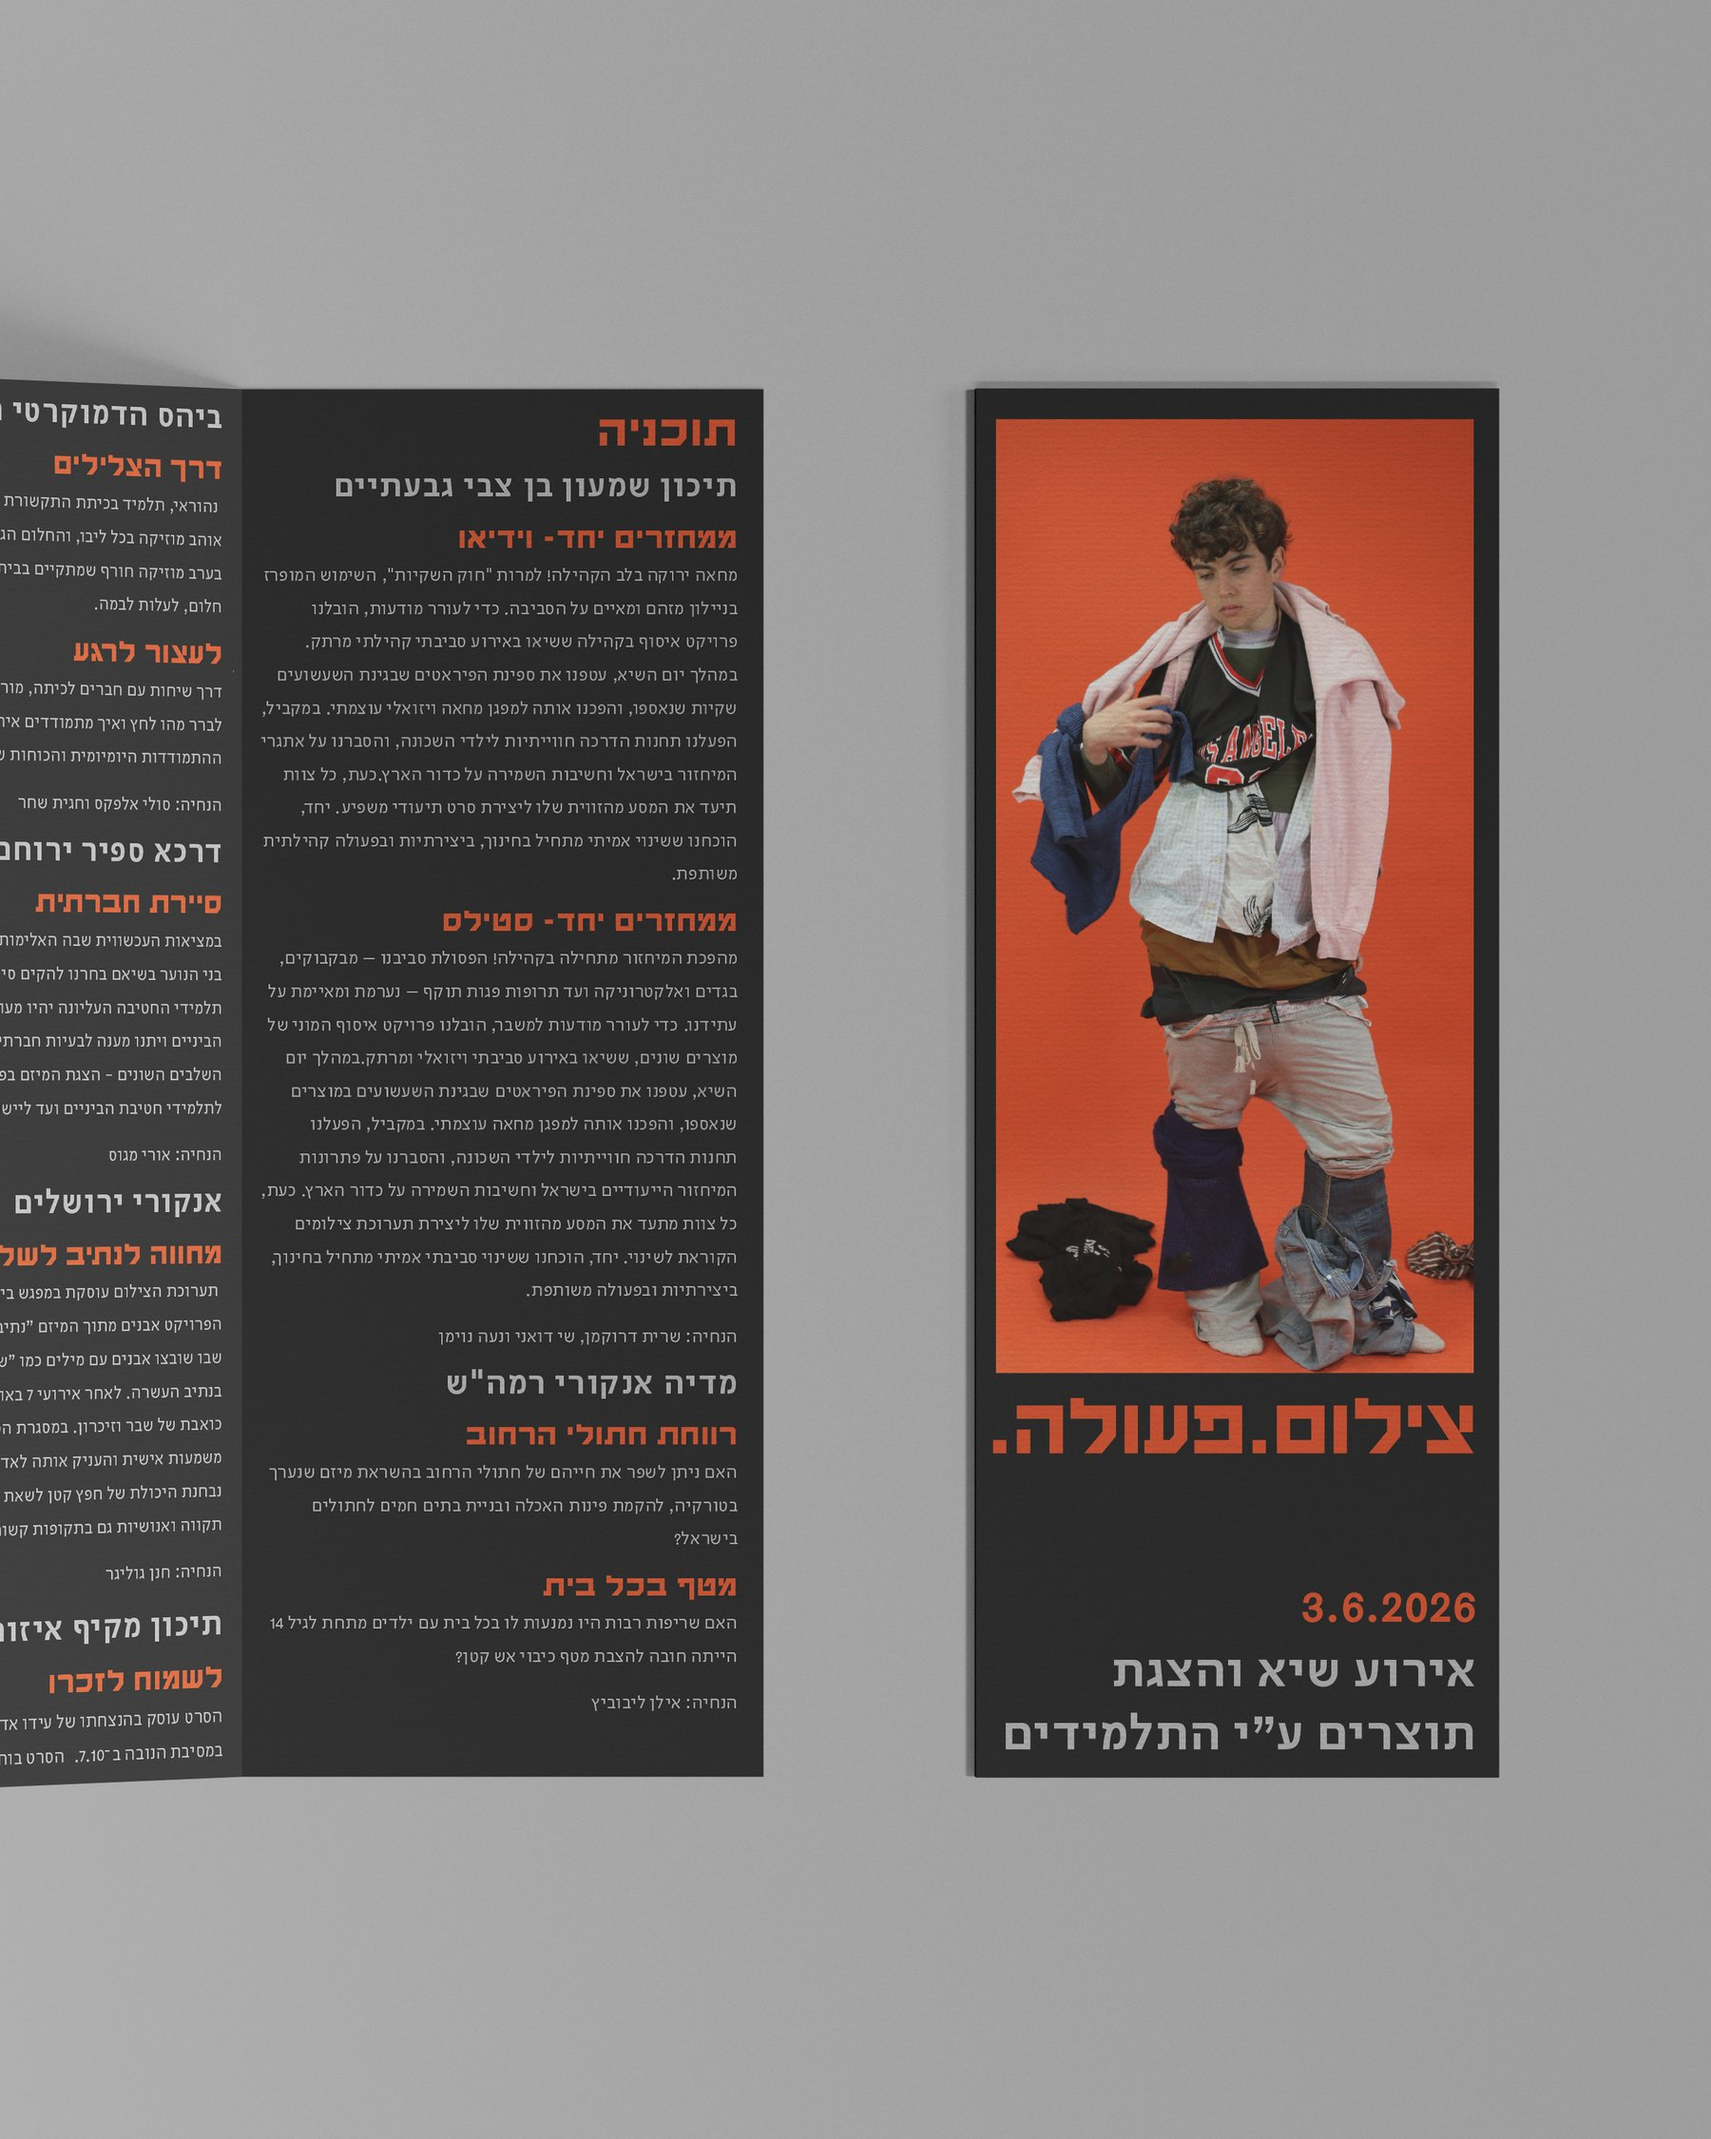
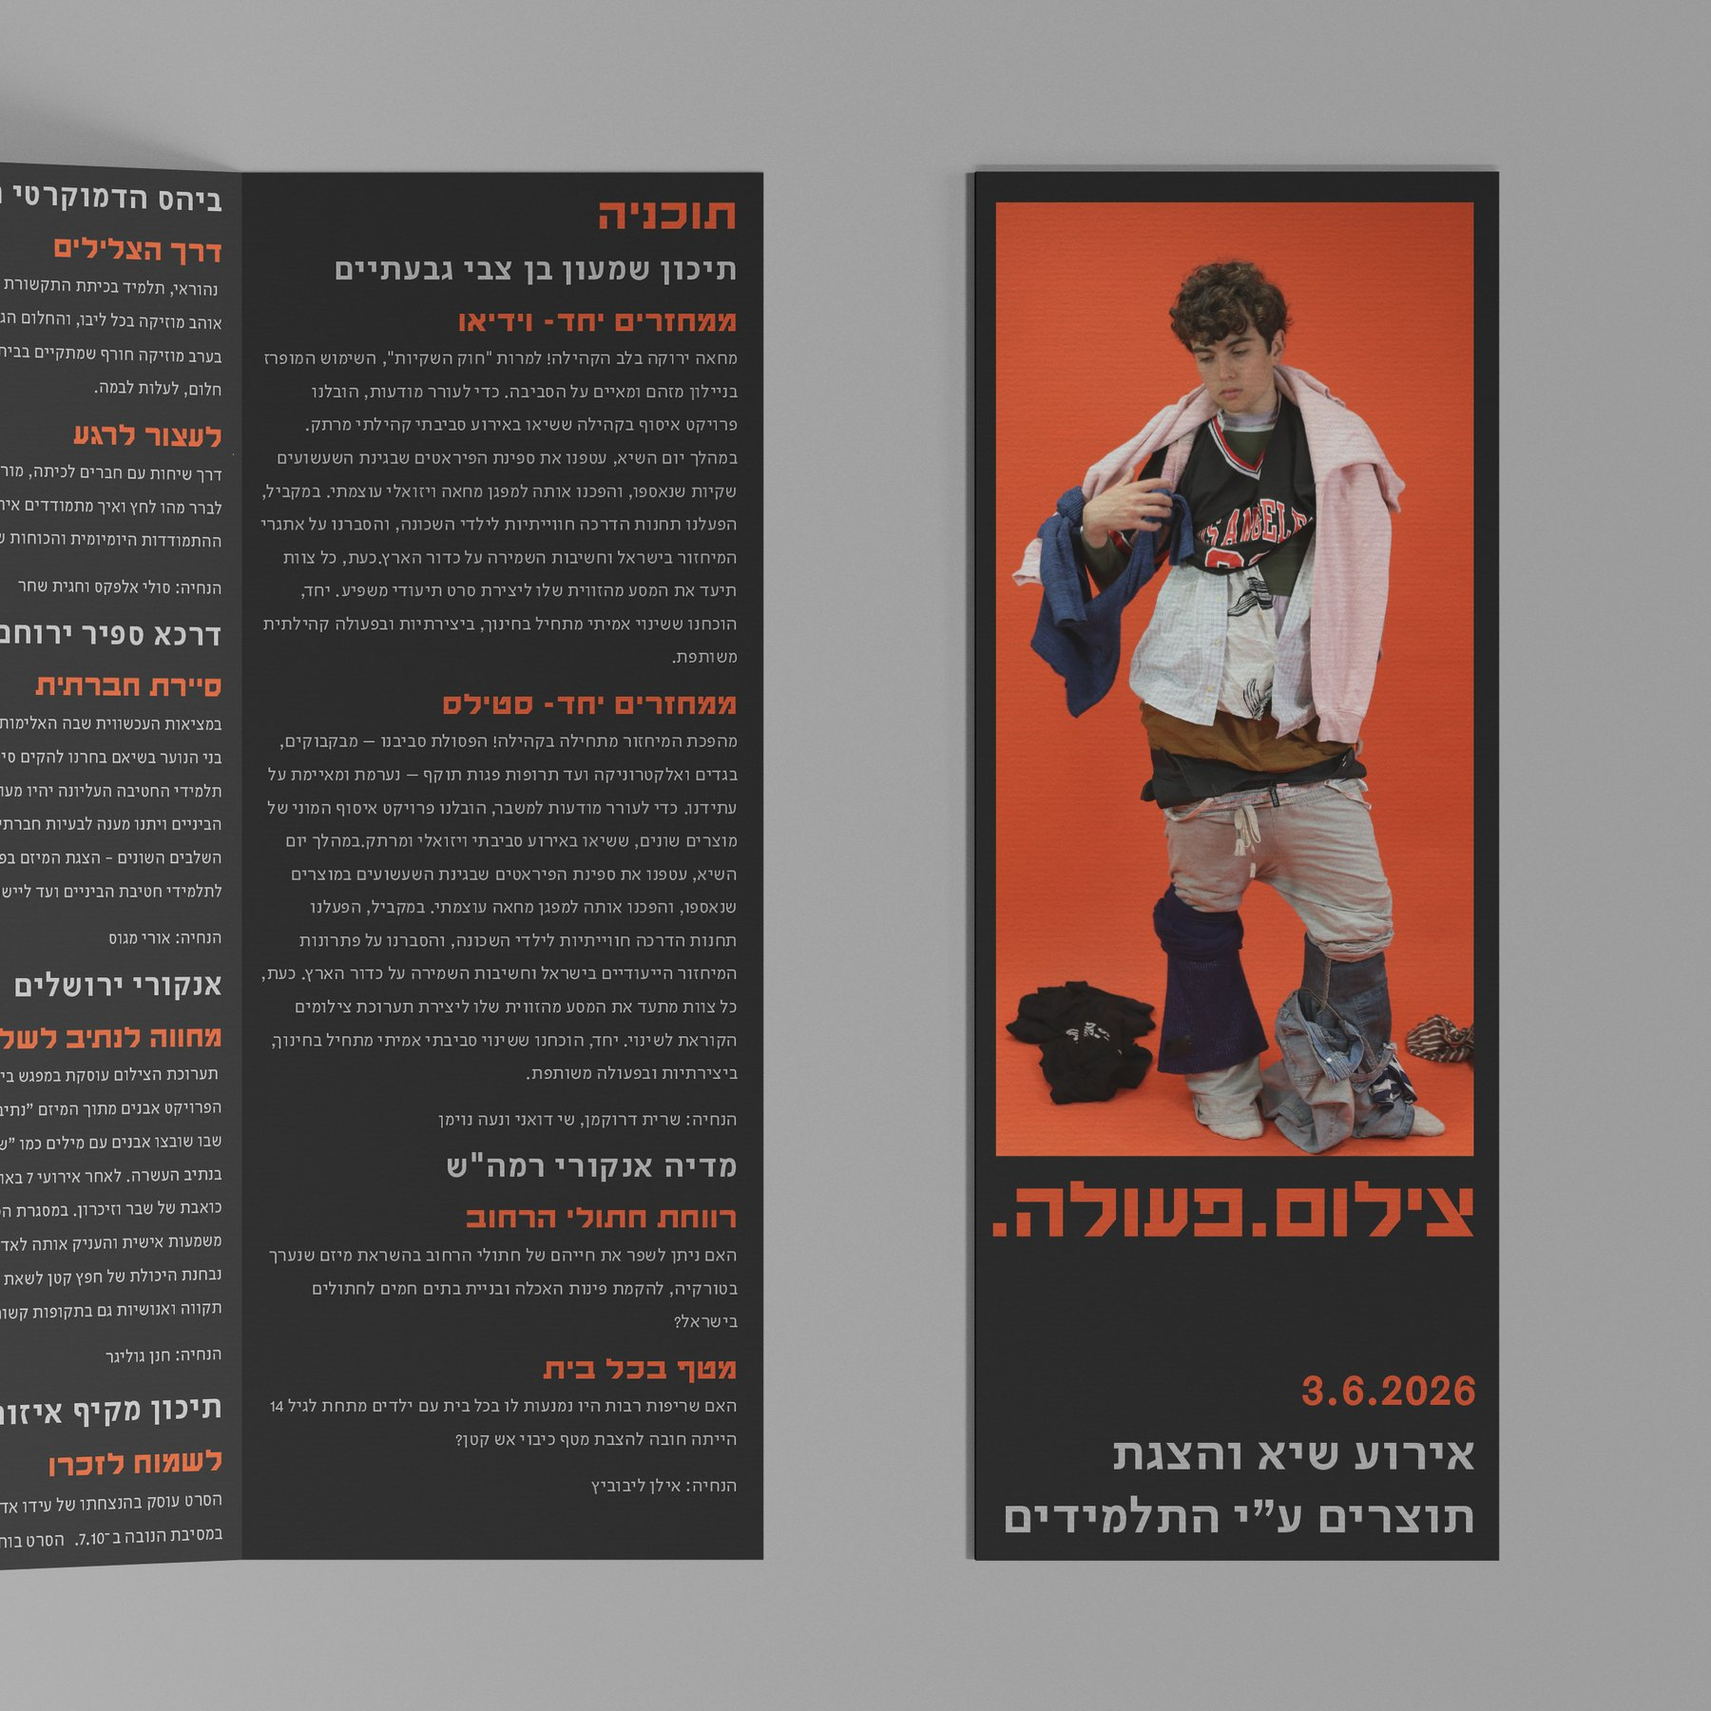
Set updated brochure mockup as PHOTO. ACTION. cover image

Changed region(s): [[0.0, 0.0622, 0.4667, 0.9333], [0.56, 0.0933, 0.9022, 0.9333]]

diff --git a/src/content/design-projects/photo-action.md b/src/content/design-projects/photo-action.md
@@ -2,11 +2,11 @@
 title: "\"PHOTO. ACTION.\""
 description: "Poster and program design for \"Photo. Action.\", an exhibition by Bezalel's Photography Department in collaboration with the Ministry of Education."
 tags: []
-cover: "../../assets/design-projects/photo-action/photo-action-01.jpg"
+cover: "../../assets/design-projects/photo-action/photo-action-03.jpg"
 featured: true
 order: 3
 ---
 
-![](../../assets/design-projects/photo-action/photo-action-02.jpg)
+![](../../assets/design-projects/photo-action/photo-action-01.jpg)
 
-![](../../assets/design-projects/photo-action/photo-action-03.jpg)
+![](../../assets/design-projects/photo-action/photo-action-02.jpg)
